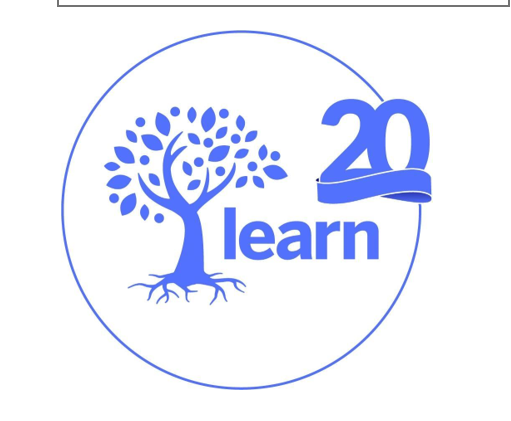
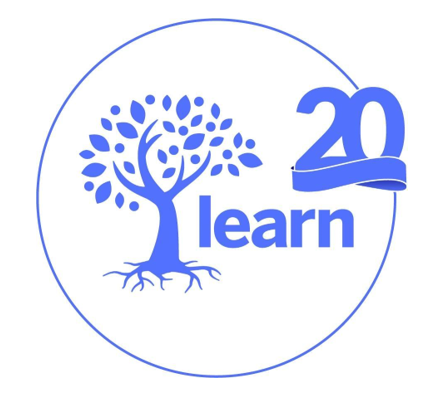
partnerships

diff --git a/src/pages/LearningEvents.js b/src/pages/LearningEvents.js
@@ -1,5 +1,8 @@
 import styled from "styled-components";
-
+import learn20 from "../images/partnershipPics/learn20.png";
+import lesterB from "../images/partnershipPics/lesterB.png";
+import newFrontier from "../images/partnershipPics/newFrontier.png";
+import sirWilPel from "../images/partnershipPics/sirWilPel.png";
 const LearningEvents = () => {
   return (
     <>
@@ -7,7 +10,7 @@ const LearningEvents = () => {
         <h1>Learning Events</h1>
         <StyledDiv2>
           <h2>Workshops</h2>
-          <h3>Childcare Educators</h3>
+          <h3>Childcare Teachers and Educators</h3>
           <StyledDiv3>
             <ul>
               <StyledLi>
@@ -35,8 +38,7 @@ const LearningEvents = () => {
           <h3>School Age</h3>
           <StyledDiv3>
             <StyledLi>
-              Affective Relationships: Building a community of learners in after
-              school care
+              Affective Relationships: Building a community of learners
             </StyledLi>
             <StyledLi>
               Strategies and Solutions: Children’s Challenging Behaviours
@@ -52,6 +54,13 @@ const LearningEvents = () => {
         </StyledDiv2>
         <StyledDiv2>
           <h2>Partnerships</h2>
+          <StyledImg1 src={learn20} alt="Learn 20 Logo" />
+          <StyledImg2 src={lesterB} alt="Lester B. Pearson School Board Logo" />
+          <StyledImg3
+            src={sirWilPel}
+            alt=" Sir Wilfred Laurier School Board Logo"
+          />
+          <StyledImg4 src={newFrontier} alt="New Frontiers Logo" />
         </StyledDiv2>
       </StyledDiv1>
     </>
@@ -91,6 +100,29 @@ const StyledDiv3 = styled.div`
 const StyledLi = styled.li`
   list-style-type: circle;
   list-style-position: inside;
+`;
+
+const StyledImg1 = styled.img`
+  width: 175px;
+  border-radius: 50%;
+  margin: 10px;
+`;
+const StyledImg2 = styled.img`
+  width: 175px;
+  border-radius: 10%;
+  margin: 10px 10px 65px 10px;
+`;
+
+const StyledImg3 = styled.img`
+  width: 175px;
+  border-radius: 5px;
+  margin: 10px;
+`;
+
+const StyledImg4 = styled.img`
+  width: 175px;
+  border-radius: 50%;
+  margin: 10px;
 `;
 
 export default LearningEvents;
